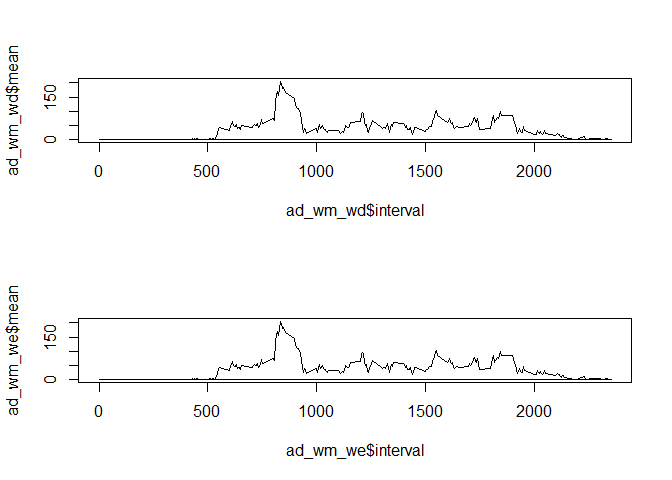
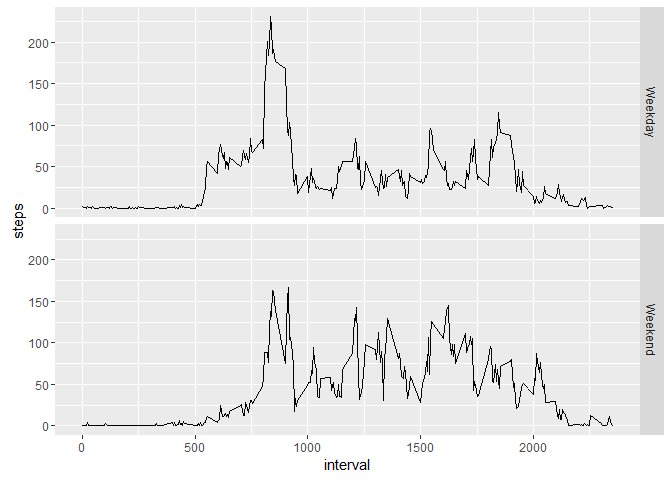
final2

diff --git a/PA1_template.html b/PA1_template.html
@@ -66,7 +66,8 @@ img {
 
 <div id="loading-and-preprocessing-the-data" class="section level2">
 <h2>Loading and preprocessing the data</h2>
-<pre class="r"><code>activity_data&lt;- read.csv(&quot;activity.csv&quot;, header=TRUE)</code></pre>
+<pre class="r"><code>activity_data&lt;- read.csv(&quot;activity.csv&quot;, header=TRUE)
+library(ggplot2)</code></pre>
 </div>
 <div id="what-is-mean-total-number-of-steps-taken-per-day" class="section level2">
 <h2>What is mean total number of steps taken per day?</h2>
@@ -102,7 +103,7 @@ ad_wm$steps&lt;- ifelse( is.na(ad_wm$steps),ad_wm$mean,ad_wm$steps)</code></pre>
 <pre class="r"><code>ad_wm_steps_per_day&lt;- aggregate(ad_wm$steps, list(ad_wm$date), FUN=sum)
 mean(ad_wm_steps_per_day$x)</code></pre>
 <pre><code>## [1] 10766.19</code></pre>
-<p>The median number of steps per day is shewn below and is higher than when excluding the NA’s</p>
+<p>The median number of steps per day is shown below and is higher than when excluding the NA’s</p>
 <pre class="r"><code>median(ad_wm_steps_per_day$x)</code></pre>
 <pre><code>## [1] 10766.19</code></pre>
 <p>The data show that there are much more values in the 10,000 step range now that the NA’s have been replaced.</p>
@@ -121,12 +122,9 @@ names(ad_wm)</code></pre>
 <pre><code>## [1] &quot;steps&quot;    &quot;date&quot;     &quot;interval&quot; &quot;mean&quot;     &quot;day&quot;</code></pre>
 <p>The dataset is now created with the mean for each day’s interval.</p>
 <pre class="r"><code>#ad_wm_interval_ave&lt;- aggregate(ad_wm$steps,list(ad_wm$interval), FUN=mean)
-ad_wm_we&lt;- ad_wm[ad_wm$day==&quot;Weekend&quot;,]
-ad_wm_wd&lt;- ad_wm[ad_wm$day==&quot;Weekday&quot;,]
-par(mfrow=c(2,1))
-plot(ad_wm_wd$interval,ad_wm_wd$mean,type = &quot;l&quot;)
-plot(ad_wm_we$interval,ad_wm_we$mean,type = &quot;l&quot;)</code></pre>
[1 lines of base64/hex data omitted]
+ad_wm_day_ave_interval&lt;- aggregate(steps ~ interval + day,data=ad_wm, mean)
+ggplot(ad_wm_day_ave_interval, aes(interval,steps))+geom_line()+facet_grid((day~.))</code></pre>
[1 lines of base64/hex data omitted]
 </div>
 
 

diff --git a/PA1_template.md b/PA1_template.md
@@ -6,6 +6,7 @@
 
 ```r
 activity_data<- read.csv("activity.csv", header=TRUE)
+library(ggplot2)
 ```
 
 ## What is mean total number of steps taken per day?
@@ -88,7 +89,7 @@ mean(ad_wm_steps_per_day$x)
 ```
 ## [1] 10766.19
 ```
-The median number of steps per day is shewn below and is higher than when excluding the NA's
+The median number of steps per day is shown below and is higher than when excluding the NA's
 
 ```r
 median(ad_wm_steps_per_day$x)
@@ -131,11 +132,8 @@ The dataset is now created with the mean for each day's interval.
 
 ```r
 #ad_wm_interval_ave<- aggregate(ad_wm$steps,list(ad_wm$interval), FUN=mean)
-ad_wm_we<- ad_wm[ad_wm$day=="Weekend",]
-ad_wm_wd<- ad_wm[ad_wm$day=="Weekday",]
-par(mfrow=c(2,1))
-plot(ad_wm_wd$interval,ad_wm_wd$mean,type = "l")
-plot(ad_wm_we$interval,ad_wm_we$mean,type = "l")
+ad_wm_day_ave_interval<- aggregate(steps ~ interval + day,data=ad_wm, mean)
+ggplot(ad_wm_day_ave_interval, aes(interval,steps))+geom_line()+facet_grid((day~.))
 ```
 
 ![](PA1_template_files/figure-html/unnamed-chunk-11-1.png)
